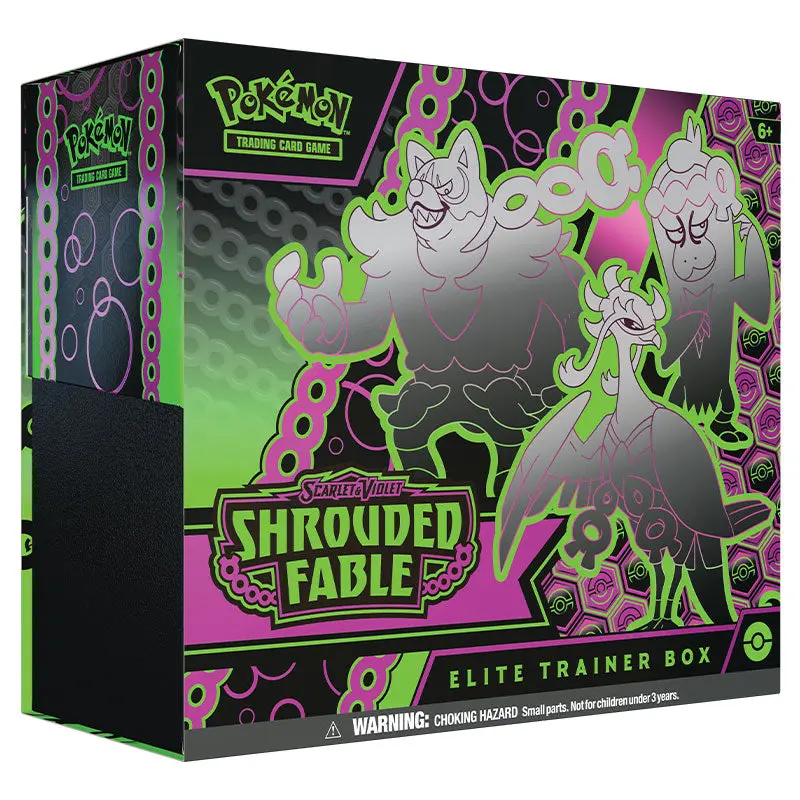
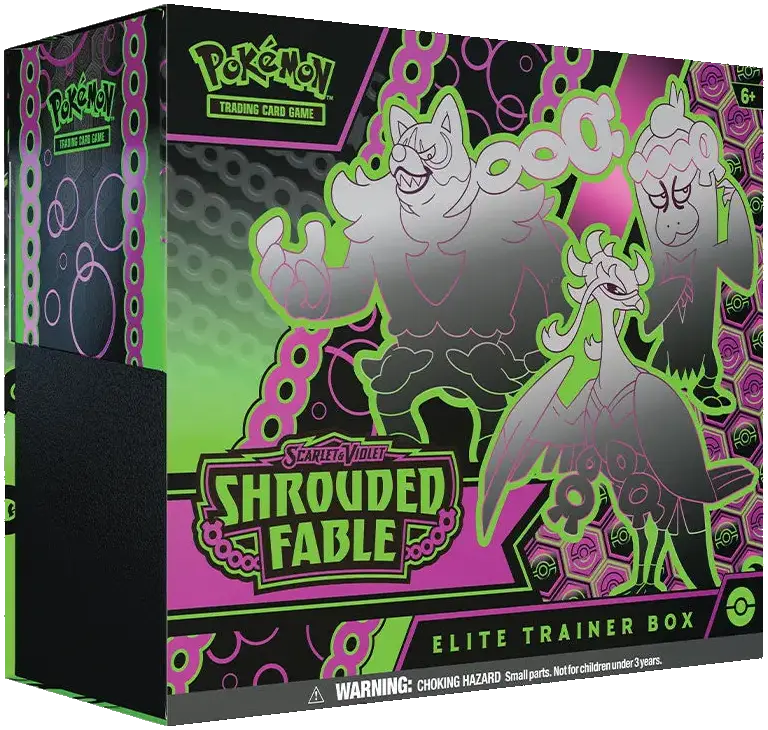
Crop the photos correctly (6ace41a9679fa97db16369d5)

diff --git a/index.html b/index.html
@@ -99,14 +99,14 @@ Object.entries(categoryImages).filter(([name])=>!['Promotions','Nouveautés','Bo
 const amphinobi=document.createElement('article');
 amphinobi.className='card';
 amphinobi.dataset.category='Coffrets Pokémon';
-amphinobi.innerHTML='<div class="thumb"><img src="/assets/products/coffret-amphinobi-30-ans.webp" alt="Photo du coffret Méga-Amphinobi ex" width="800" height="800" loading="lazy" decoding="async"></div><span class="tag">Coffrets Pokémon</span><h4>Coffret Amphinobi – 30 ans</h4><p>Coffret Pokémon Amphinobi pour compléter votre collection.</p><div class="price">100,00 €</div><a class="btn" href="#paiement">Acheter</a>';
+amphinobi.innerHTML='<div class="thumb"><img src="/assets/products/coffret-amphinobi-30-ans.webp?v=20261013-crop" alt="Photo du coffret Méga-Amphinobi ex" width="789" height="564" loading="lazy" decoding="async"></div><span class="tag">Coffrets Pokémon</span><h4>Coffret Amphinobi – 30 ans</h4><p>Coffret Pokémon Amphinobi pour compléter votre collection.</p><div class="price">100,00 €</div><a class="btn" href="#paiement">Acheter</a>';
 document.querySelector('#boutique .grid').appendChild(amphinobi);
 </script>
 <script>
 const fableNebuleuse=document.createElement('article');
 fableNebuleuse.className='card';
 fableNebuleuse.dataset.category='Coffrets Pokémon';
-fableNebuleuse.innerHTML='<div class="thumb"><img src="/assets/products/coffret-fable-nebuleuse.webp" alt="Photo du Coffret Dresseur d’élite Fable Nébuleuse, visuel anglais Shrouded Fable" width="800" height="800" loading="lazy" decoding="async"></div><span class="tag">Coffrets Pokémon</span><h4>Coffret Fable Nébuleuse</h4><p>Coffret Pokémon de la collection Fable Nébuleuse.</p><div class="price">75,00 €</div><a class="btn" href="#paiement">Acheter</a>';
+fableNebuleuse.innerHTML='<div class="thumb"><img src="/assets/products/coffret-fable-nebuleuse.webp?v=20261013-crop" alt="Photo du Coffret Dresseur d’élite Fable Nébuleuse, visuel anglais Shrouded Fable" width="768" height="730" loading="lazy" decoding="async"></div><span class="tag">Coffrets Pokémon</span><h4>Coffret Fable Nébuleuse</h4><p>Coffret Pokémon de la collection Fable Nébuleuse.</p><div class="price">75,00 €</div><a class="btn" href="#paiement">Acheter</a>';
 document.querySelector('#boutique .grid').appendChild(fableNebuleuse);
 </script>
 <script>document.title='PokemarketTGC — Cartes Pokémon';document.querySelector('.hero h2').textContent='Complete ta collection.';document.querySelector('.hero p').textContent='PokemarketTGC — cartes, boosters, ETB et produits Pokémon sélectionnés pour les collectionneurs. Ce site est géré par une entreprise professionnelle.';</script>
